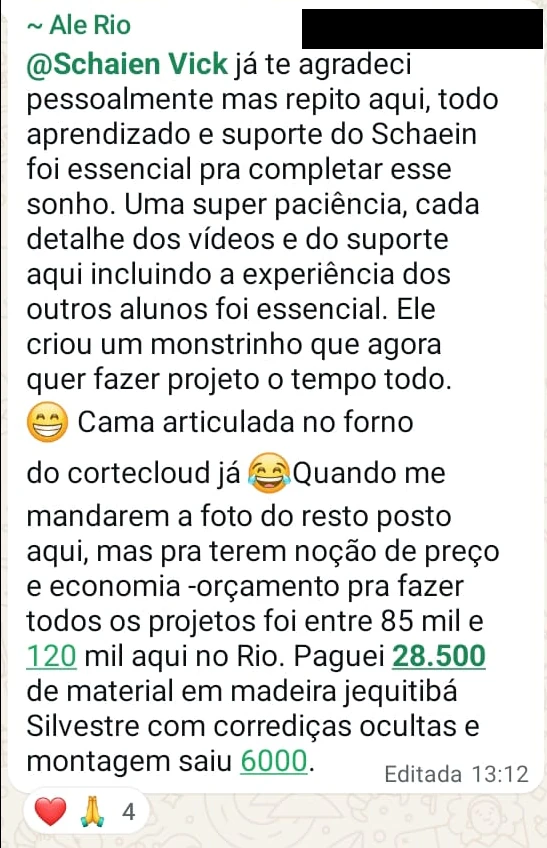
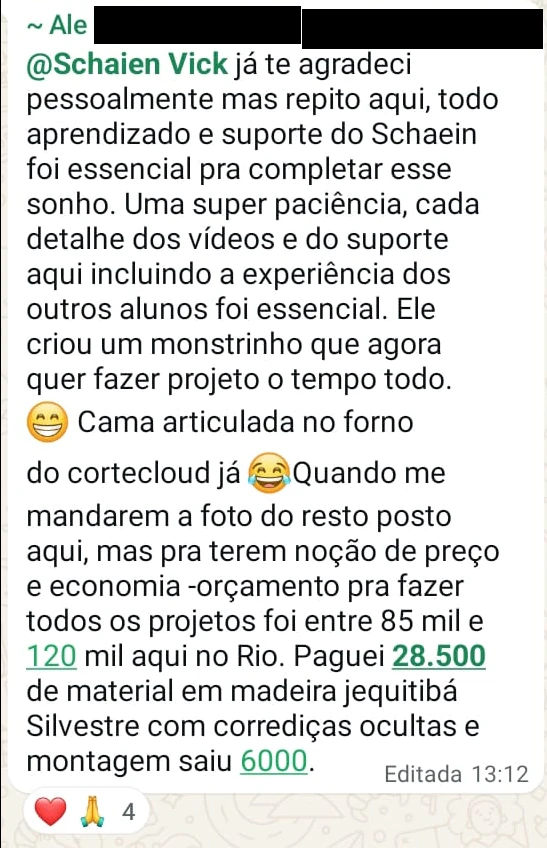
feat: publish expanded three-column testimonial wall with first names only

Changed region(s): [[0.1554, 0.0, 0.5594, 0.0613]]

diff --git a/apps/web/app/lp/proof.tsx b/apps/web/app/lp/proof.tsx
@@ -3,18 +3,27 @@
 import { useRef, useState } from "react";
 
 const conversations = {
-  adriely: { name: "Adriely Marconato Marum", image: "adriely-conversa", text: "Ainda faltam alguns detalhes para finalizar, mas já estamos muito felizes com o resultado! Também quero deixar meu agradecimento especial ao Schaien Vick pela assessoria durante todo o desenvolvimento do nosso projeto. Ele foi extremamente atencioso, tirou todas as minhas dúvidas, conferiu o projeto e sugeriu melhorias que fizeram toda a diferença. Indico o curso de olhos fechados!" },
-  ale: { name: "Ale Rio", image: "ale-conversa", text: "Todo aprendizado e suporte do Schaein foi essencial pra completar esse sonho. Uma super paciência, cada detalhe dos vídeos e do suporte aqui incluindo a experiência dos outros alunos foi essencial. Ele criou um monstrinho que agora quer fazer projeto o tempo todo. Na mensagem completa, Ale também relata orçamentos entre R$ 85 mil e R$ 120 mil, R$ 28.500 de material e R$ 6.000 de montagem. São valores relatados para seu projeto; não representam economia garantida ou comparação auditada." },
-  thais: { name: "Thais Moraes", image: "thais-conversa", text: "Prontinho! Projeto executado e instalado. Quero agradecer todo apoio e orientações, Schaien Vick. Eu amei." },
+  adriely: { name: "Adriely", image: "adriely-conversa", text: "Ainda faltam alguns detalhes para finalizar, mas já estamos muito felizes com o resultado! Também quero deixar meu agradecimento especial ao Schaien Vick pela assessoria durante todo o desenvolvimento do nosso projeto. Ele foi extremamente atencioso, tirou todas as minhas dúvidas, conferiu o projeto e sugeriu melhorias que fizeram toda a diferença. Indico o curso de olhos fechados!" },
+  ale: { name: "Ale", image: "ale-conversa", text: "Todo aprendizado e suporte do Schaein foi essencial pra completar esse sonho. Uma super paciência, cada detalhe dos vídeos e do suporte aqui incluindo a experiência dos outros alunos foi essencial. Ele criou um monstrinho que agora quer fazer projeto o tempo todo. Na mensagem completa, Ale também relata orçamentos entre R$ 85 mil e R$ 120 mil, R$ 28.500 de material e R$ 6.000 de montagem. São valores relatados para seu projeto; não representam economia garantida ou comparação auditada." },
+  thais: { name: "Thais", image: "thais-conversa", text: "Prontinho! Projeto executado e instalado. Quero agradecer todo apoio e orientações, Schaien Vick. Eu amei." },
   taina: { name: "Taina", image: "taina-conversa", text: "Schaien, ficou pronta minha cozinha! Conseguimos economizar R$ 6.600 na reforma, muito grata pela ajuda, muito obrigada mesmo. Estamos muito felizes! Valeu mesmo por compartilhar todo esse conhecimento com a gente, Schaien! O valor é um relato individual, sem garantia de economia para outros projetos." },
   maicon: { name: "Maicon", image: "maicon-conversa", text: "Tudo pronto! Projeto executado. Schaien, muito obrigado pela ajuda! Consegui economizar mais de R$ 10.000 na cozinha. Isso vai me ajudar muito para conseguir mobiliar o restante da casa! Economia relatada pelo participante, sem comparação auditada." },
   mirella: { name: "Mirella", image: "mirella-processo", text: "Tá acontecendo! Mirella compartilha fotos do armário em montagem em 14 de outubro de 2026. Registro de processo em andamento." },
-  carol: { name: "Carol Kuhn", image: "carol-conversa", text: "Eu tbm!!! Investi no curso com a esperança de tirar meus sonhos do papel... e estão!!! Em breve, trago as novidades do meu projeto por aqui tbm. Registro de expectativa e andamento; a citação acima da mensagem é de Juliana, outra participante." },
+  carol: { name: "Carol", image: "carol-conversa", text: "Eu tbm!!! Investi no curso com a esperança de tirar meus sonhos do papel... e estão!!! Em breve, trago as novidades do meu projeto por aqui tbm. Registro de expectativa e andamento; a citação acima da mensagem é de Juliana, outra participante." },
+  adrielySatisfacao: { name: "Adriely · Aprendizado e satisfação", image: "adriely-satisfacao", text: "Foi um processo de muito aprendizado, dedicação e planejamento, mas ver tudo pronto e do jeitinho que sonhamos é muito gratificante! Mais uma vez, muito obrigada, Schaien Vick, por todo o suporte e conhecimento compartilhado! Outra mensagem do mesmo projeto de Adriely." },
+  adrielyCustos: { name: "Adriely · Custos do mesmo projeto", image: "adriely-custos", text: "Adriely relata R$ 21.400 em materiais e serviços de corte e R$ 3.500 no montador. Compara com orçamento de R$ 18.000 somente para a cozinha. Materiais abrangem cozinha, lavanderia, dois banheiros, sala e quarto do casal. Escopos distintos: não representam comparação auditada. Outra mensagem do mesmo caso." },
+  aleQuarto: { name: "Ale · Outro registro do projeto", image: "ale-quarto", text: "Ale compartilha foto de um quarto e imagens do projeto. Relata marcenaria pronta e bancadas ainda a instalar. A cama articulada é projeto futuro. Outro registro do mesmo caso, não um novo participante." },
+  aleMontagem: { name: "Ale · Primeiro dia da montagem", image: "ale-montagem", text: "Dia 01 da montagem da cozinha. Tudo flui muito bem! Ale também relata um interruptor atrás da geladeira e busca de eletricista para resolver. Registro de andamento do mesmo projeto." },
+  mirellaChegada: { name: "Mirella · Chegada das peças", image: "mirella-chegada", text: "Aqui tb recebemos as peças, amanhã começa a montagem. Outra etapa do mesmo projeto de Mirella; não é resultado final." },
+  mirellaComunidade: { name: "Mirella · Comentário na comunidade", image: "mirella-comunidade", text: "Que show!! Mto feliz por vc Carol!! Parabéns pelo projeto e Schaien Vick por multiplicar esse conhecimento!! Comentário de Mirella sobre o projeto de Carol, não sobre execução própria." },
+  thaisCustos: { name: "Thais · Custos do mesmo projeto", image: "thais-custos", text: "Em resposta a uma pergunta de Juliany, Thais relata: Pela marcenaria recebi um orçamento de 5200$, porém mudei algumas coisas no projeto (melhorei ele)....paguei 1900$ da central e 600$ da montagem. Valores relatados e projeto modificado; sem comparação auditada." },
+
 };
 
 
 type Person = keyof typeof conversations;
-const columns: Person[][] = [["thais", "mirella"], ["adriely", "carol"], ["maicon"], ["ale", "taina"]];
+const priority: Person[] = ["maicon", "ale", "taina", "thaisCustos", "adrielyCustos", "adriely", "adrielySatisfacao", "aleQuarto", "aleMontagem", "mirellaChegada", "mirella", "carol", "mirellaComunidade", "thais"];
+const columns: Person[][] = [["maicon", "thaisCustos", "adrielySatisfacao", "mirellaChegada", "carol"], ["ale", "adrielyCustos", "aleMontagem", "mirellaComunidade"], ["taina", "adriely", "aleQuarto", "mirella", "thais"]];
 
 export function ResultsProof() {
   const [expanded, setExpanded] = useState(false);
@@ -40,16 +49,15 @@ export function ResultsProof() {
           {columns.map((column, index) => <div className="lp-wall-column" key={index}>
             {column.map(person => {
               const entry = conversations[person];
-              return <figure className="lp-wall-item" key={person}>
+              return <figure className="lp-wall-item" key={person} style={{ order: priority.indexOf(person) }}>
                 <button type="button" onClick={() => open(person)} aria-label={`Ampliar depoimento de ${entry.name}`}><img src={`/lp/${entry.image}.webp`} alt={`Print da conversa de ${entry.name}: ${entry.text}`} loading="lazy" /></button>
-                <figcaption>{entry.name}{person === "mirella" || person === "carol" ? " · Projeto em andamento" : ""}</figcaption>
               </figure>;
             })}
           </div>)}
         </div>
       </div>
-      <div className="lp-wall-controls"><button type="button" aria-expanded={expanded} aria-controls="lp-testimonial-wall" onClick={() => setExpanded(v => !v)}>{expanded ? "Recolher relatos" : "Ver todos os relatos"}<svg viewBox="0 0 24 24" width="18" height="18" fill="none" aria-hidden="true" className={expanded ? "is-up" : ""}><path d="M12 4v16m-6-6 6 6 6-6" stroke="currentColor" strokeWidth="1.5" strokeLinecap="round" strokeLinejoin="round" /></svg></button></div>
-      <p className="lp-wall-note">Toque em um print para ampliar. Telefones e fotos de perfil protegidos.<br />Experiências individuais; custos e resultados variam conforme cada projeto.</p>
+      <div className="lp-wall-controls"><button type="button" aria-expanded={expanded} aria-controls="lp-testimonial-wall" onClick={() => setExpanded(v => !v)}>{expanded ? "Recolher relatos" : "Ver todos os depoimentos"}<svg viewBox="0 0 24 24" width="18" height="18" fill="none" aria-hidden="true" className={expanded ? "is-up" : ""}><path d="M12 4v16m-6-6 6 6 6-6" stroke="currentColor" strokeWidth="1.5" strokeLinecap="round" strokeLinejoin="round" /></svg></button></div>
+      <p className="lp-wall-note">Toque em um print para ampliar. Telefones e fotos de perfil protegidos.<br />14 prints de 7 participantes, incluindo diferentes etapas do mesmo projeto. Custos e resultados são individuais.</p>
     </div>
     <dialog ref={dialog} className="lp-wall-dialog" aria-labelledby="lp-wall-dialog-title" onCancel={e => { e.preventDefault(); close(); }} onClick={e => { if (e.target === e.currentTarget) { const rect = e.currentTarget.getBoundingClientRect(); if (e.clientX < rect.left || e.clientX > rect.right || e.clientY < rect.top || e.clientY > rect.bottom) close(); } }}>
       <header><h2 id="lp-wall-dialog-title">{item?.name ?? "Depoimento"}</h2><button type="button" onClick={close} autoFocus aria-label="Fechar depoimento">Fechar ×</button></header>

diff --git a/apps/web/app/lp/proof.css b/apps/web/app/lp/proof.css
@@ -1,3 +1,3 @@
-.lp-testimonials{background:#221e1c;color:#f5f5f5;padding:76px 24px 60px}.lp-testimonials-inner{max-width:1120px;margin:auto}.lp-testimonials h2{font:800 clamp(26px,3vw,36px)/1.22 Montserrat,sans-serif;text-align:center;letter-spacing:-.025em;text-wrap:balance;margin:0 auto 40px;max-width:680px}.lp-wall-intro{font:400 16px/1.6 Inter,sans-serif;text-align:center;color:#555;margin:0 0 36px}.lp-wall-viewport{position:relative;max-height:610px;overflow:hidden}.lp-wall-viewport:not(.is-expanded)::after{content:"";position:absolute;inset:auto 0 0;height:150px;background:linear-gradient(transparent,#221e1c);pointer-events:none}.lp-wall-viewport.is-expanded{max-height:none;overflow:visible}.lp-wall{display:grid;grid-template-columns:repeat(4,minmax(0,1fr));gap:14px;align-items:start}.lp-wall-column{display:flex;flex-direction:column;gap:14px;min-width:0}.lp-wall-item{margin:0;background:#2b2521;border:1px solid #4b3b30;border-radius:18px;padding:8px;overflow:hidden;break-inside:avoid}.lp-wall-item button{display:block;border:0;width:100%;padding:0;background:transparent;cursor:zoom-in;border-radius:12px;overflow:hidden}.lp-wall-item img{display:block;width:100%;height:auto}.lp-wall-item figcaption{font:500 11px/1.5 Inter,sans-serif;color:#c7bbb3;margin:8px 4px 2px}.lp-wall-controls{position:relative;z-index:1;text-align:center;margin-top:18px}.lp-wall-controls>button{display:inline-flex;align-items:center;justify-content:center;gap:12px;min-height:46px;padding:12px 24px;border-radius:28px;background:#f57814;color:#17110d;font:700 14px/1.5 Inter,sans-serif;cursor:pointer;border:1px solid #f57814}.lp-wall-controls>button:hover{background:#ff943c}.lp-wall-controls svg{transition:transform .18s ease-out}.lp-wall-controls .is-up{transform:rotate(180deg)}.lp-wall-note{font:400 12px/1.7 Inter,sans-serif;color:#c7bbb3;text-align:center;margin:20px auto 0}.lp-testimonials :focus-visible,.lp-wall-dialog :focus-visible{outline:3px solid #e46200;outline-offset:4px}.lp-wall-dialog{position:fixed;inset:0;margin:auto;width:min(690px,calc(100vw - 24px));max-height:92dvh;overflow:auto;overscroll-behavior:contain;background:#fff;color:#222;padding:0 16px 24px;border-radius:14px;border:1px solid #ddd}.lp-wall-dialog::backdrop{background:rgb(0 0 0/.82)}.lp-wall-dialog header{position:sticky;top:0;background:#fff;z-index:1;display:flex;align-items:center;justify-content:space-between;gap:12px;padding:14px 0}.lp-wall-dialog h2{font:700 17px/1.4 Inter,sans-serif;margin:0}.lp-wall-dialog header button{font:600 14px/1.5 Inter,sans-serif;padding:8px;min-height:44px;cursor:pointer}.lp-wall-dialog>img{width:100%;height:auto;display:block}.lp-wall-dialog details{padding-top:20px;font:400 16px/1.7 Inter,sans-serif}.lp-wall-dialog summary{cursor:pointer;font-weight:600}.lp-wall-dialog details p{margin-top:16px}@media(max-width:900px){.lp-wall{grid-template-columns:repeat(2,minmax(0,1fr))}.lp-wall-viewport{max-height:760px}.lp-testimonials{padding:56px 20px}}@media(max-width:520px){.lp-wall{grid-template-columns:1fr;gap:16px}.lp-wall-column{display:contents}.lp-wall-item:nth-child(n){margin:0}.lp-wall-viewport{max-height:850px}.lp-testimonials{padding:48px 18px}.lp-wall-intro{font-size:15px;margin-bottom:28px}.lp-testimonials h2{font-size:27px}.lp-wall-item{padding:6px;border-radius:14px}.lp-wall-item figcaption{font-size:12px}.lp-wall-dialog h2{font-size:15px}}@media(prefers-reduced-motion:reduce){.lp-wall-controls svg{transition:none}}
+.lp-testimonials{background:#221e1c;color:#f5f5f5;padding:76px 24px 60px}.lp-testimonials-inner{max-width:1120px;margin:auto}.lp-testimonials h2{font:800 clamp(26px,3vw,36px)/1.22 Montserrat,sans-serif;text-align:center;letter-spacing:-.025em;text-wrap:balance;margin:0 auto 40px;max-width:680px}.lp-wall-intro{font:400 16px/1.6 Inter,sans-serif;text-align:center;color:#555;margin:0 0 36px}.lp-wall-viewport{position:relative;max-height:950px;overflow:hidden}.lp-wall-viewport:not(.is-expanded)::after{content:"";position:absolute;inset:auto 0 0;height:150px;background:linear-gradient(transparent,#221e1c);pointer-events:none}.lp-wall-viewport.is-expanded{max-height:none;overflow:visible}.lp-wall{display:grid;grid-template-columns:repeat(3,minmax(0,1fr));gap:14px;align-items:start}.lp-wall-column{display:flex;flex-direction:column;gap:14px;min-width:0}.lp-wall-item{margin:0;background:#2b2521;border:1px solid #4b3b30;border-radius:18px;padding:8px;overflow:hidden;break-inside:avoid}.lp-wall-item button{display:block;border:0;width:100%;padding:0;background:transparent;cursor:zoom-in;border-radius:12px;overflow:hidden}.lp-wall-item img{display:block;width:100%;height:auto}.lp-wall-controls{position:relative;z-index:1;text-align:center;margin-top:18px}.lp-wall-controls>button{display:inline-flex;align-items:center;justify-content:center;gap:12px;min-height:46px;padding:12px 24px;border-radius:28px;background:#f57814;color:#17110d;font:700 14px/1.5 Inter,sans-serif;cursor:pointer;border:1px solid #f57814}.lp-wall-controls>button:hover{background:#ff943c}.lp-wall-controls svg{transition:transform .18s ease-out}.lp-wall-controls .is-up{transform:rotate(180deg)}.lp-wall-note{font:400 12px/1.7 Inter,sans-serif;color:#c7bbb3;text-align:center;margin:20px auto 0}.lp-testimonials :focus-visible,.lp-wall-dialog :focus-visible{outline:3px solid #e46200;outline-offset:4px}.lp-wall-dialog{position:fixed;inset:0;margin:auto;width:min(690px,calc(100vw - 24px));max-height:92dvh;overflow:auto;overscroll-behavior:contain;background:#fff;color:#222;padding:0 16px 24px;border-radius:14px;border:1px solid #ddd}.lp-wall-dialog::backdrop{background:rgb(0 0 0/.82)}.lp-wall-dialog header{position:sticky;top:0;background:#fff;z-index:1;display:flex;align-items:center;justify-content:space-between;gap:12px;padding:14px 0}.lp-wall-dialog h2{font:700 17px/1.4 Inter,sans-serif;margin:0}.lp-wall-dialog header button{font:600 14px/1.5 Inter,sans-serif;padding:8px;min-height:44px;cursor:pointer}.lp-wall-dialog>img{width:100%;height:auto;display:block}.lp-wall-dialog details{padding-top:20px;font:400 16px/1.7 Inter,sans-serif}.lp-wall-dialog summary{cursor:pointer;font-weight:600}.lp-wall-dialog details p{margin-top:16px}@media(max-width:900px){.lp-wall{grid-template-columns:repeat(2,minmax(0,1fr))}.lp-wall-viewport{max-height:760px}.lp-testimonials{padding:56px 20px}}@media(max-width:520px){.lp-wall{grid-template-columns:1fr;gap:16px}.lp-wall-column{display:contents}.lp-wall-item:nth-child(n){margin:0}.lp-wall-viewport{max-height:850px}.lp-testimonials{padding:48px 18px}.lp-wall-intro{font-size:15px;margin-bottom:28px}.lp-testimonials h2{font-size:27px}.lp-wall-item{padding:6px;border-radius:14px}.lp-wall-dialog h2{font-size:15px}}@media(prefers-reduced-motion:reduce){.lp-wall-controls svg{transition:none}}
 
 .lp-testimonials h2 span{color:#ff790f}.lp-testimonials .glow-divider{margin-inline:auto}
